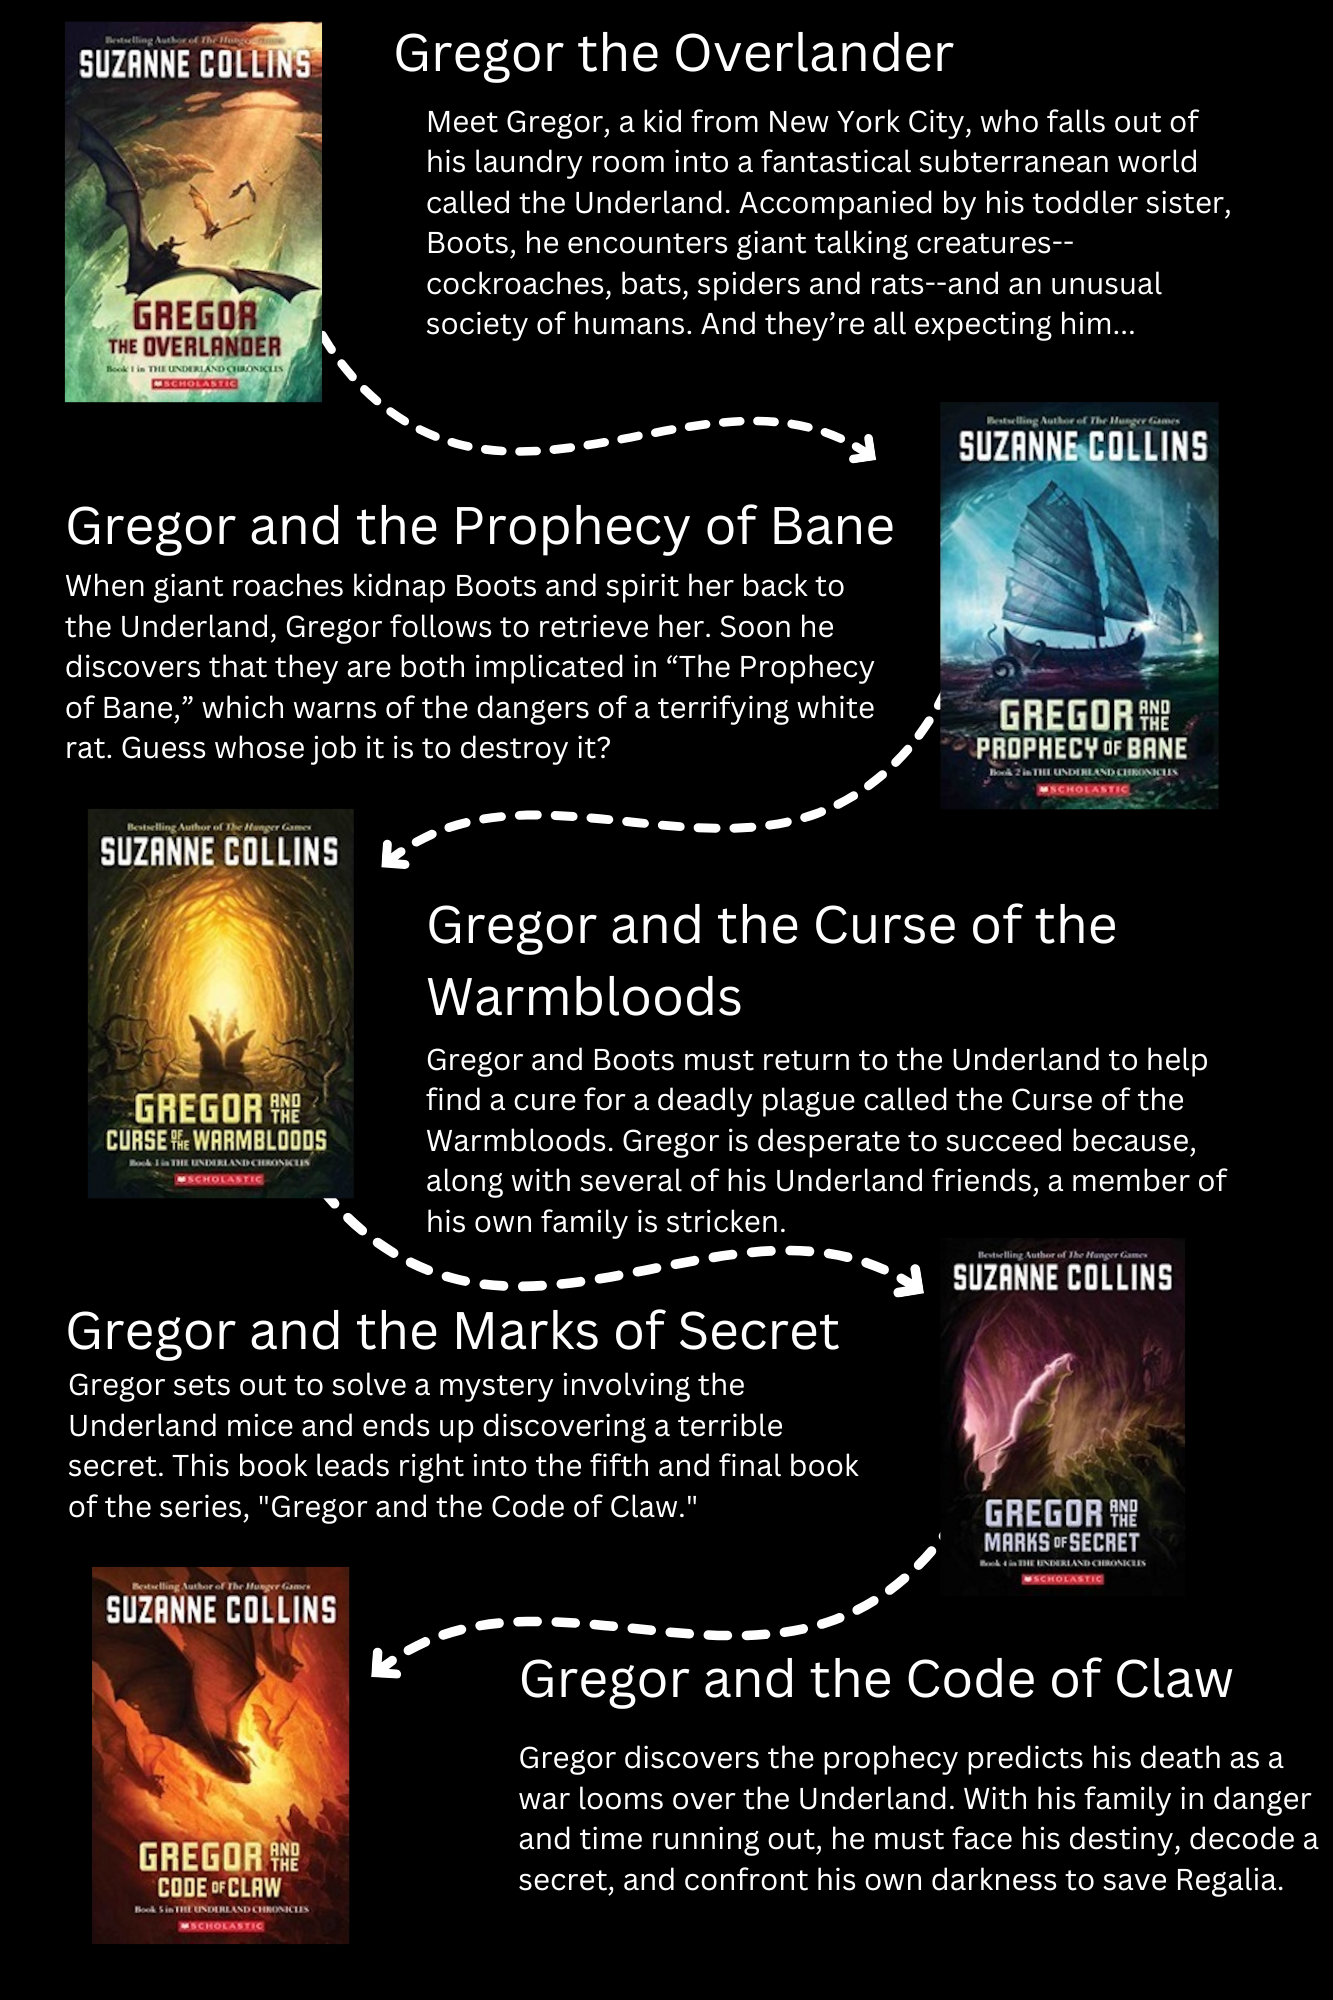
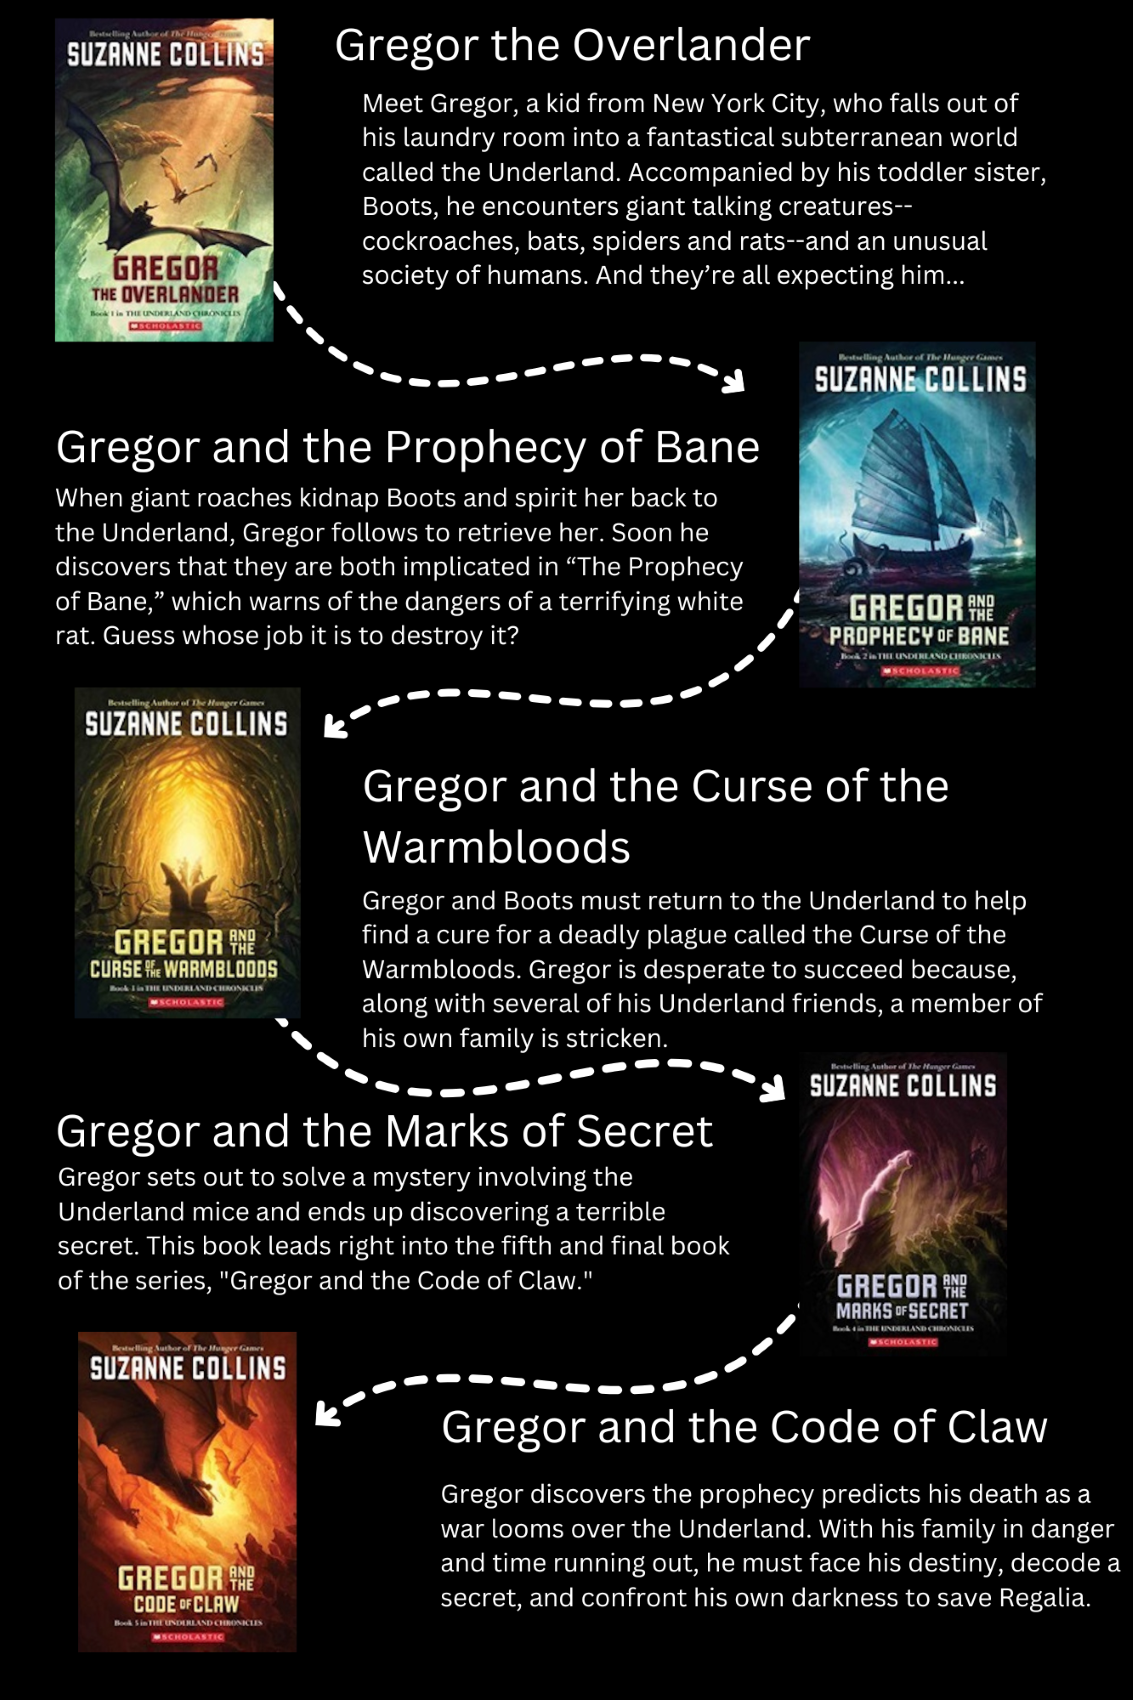
timeline

diff --git a/Suzanne Collins/style.css b/Suzanne Collins/style.css
@@ -1,6 +1,7 @@
 /* ADD YOUR CUSTOM CSS TO THIS FILE BELOW */
 body {background-color: black;  font-family: "Times New Roman", Times, serif; }
 h1 {text-align: center; color: #E4B77D;}
+
 .navbar {background-color: #E4B77D;}
 #updates {text-align:center; color: white;}
 .card-group, #about {margin:0 auto; width: 800px;}
@@ -23,4 +24,6 @@ h1 {text-align: center; color: #E4B77D;}
 #about {margin-top: 50px;}
 
 .books {text-align: left; padding-left: 25px;}
+
+#timeline {text-align: center;}
 

diff --git a/Suzanne Collins/storyline.html b/Suzanne Collins/storyline.html
@@ -49,7 +49,14 @@
 
 
 
+<div id="timeline">
+  <h1> The Hunger Game Series</h1>
+<img src="time.png" alt="timeline of the hunger games series" >
+<h1> The Underland Series</h1>
+<img src="line.png" alt="timeline of the underland series" >
 
+
+</div>
 
 
 
